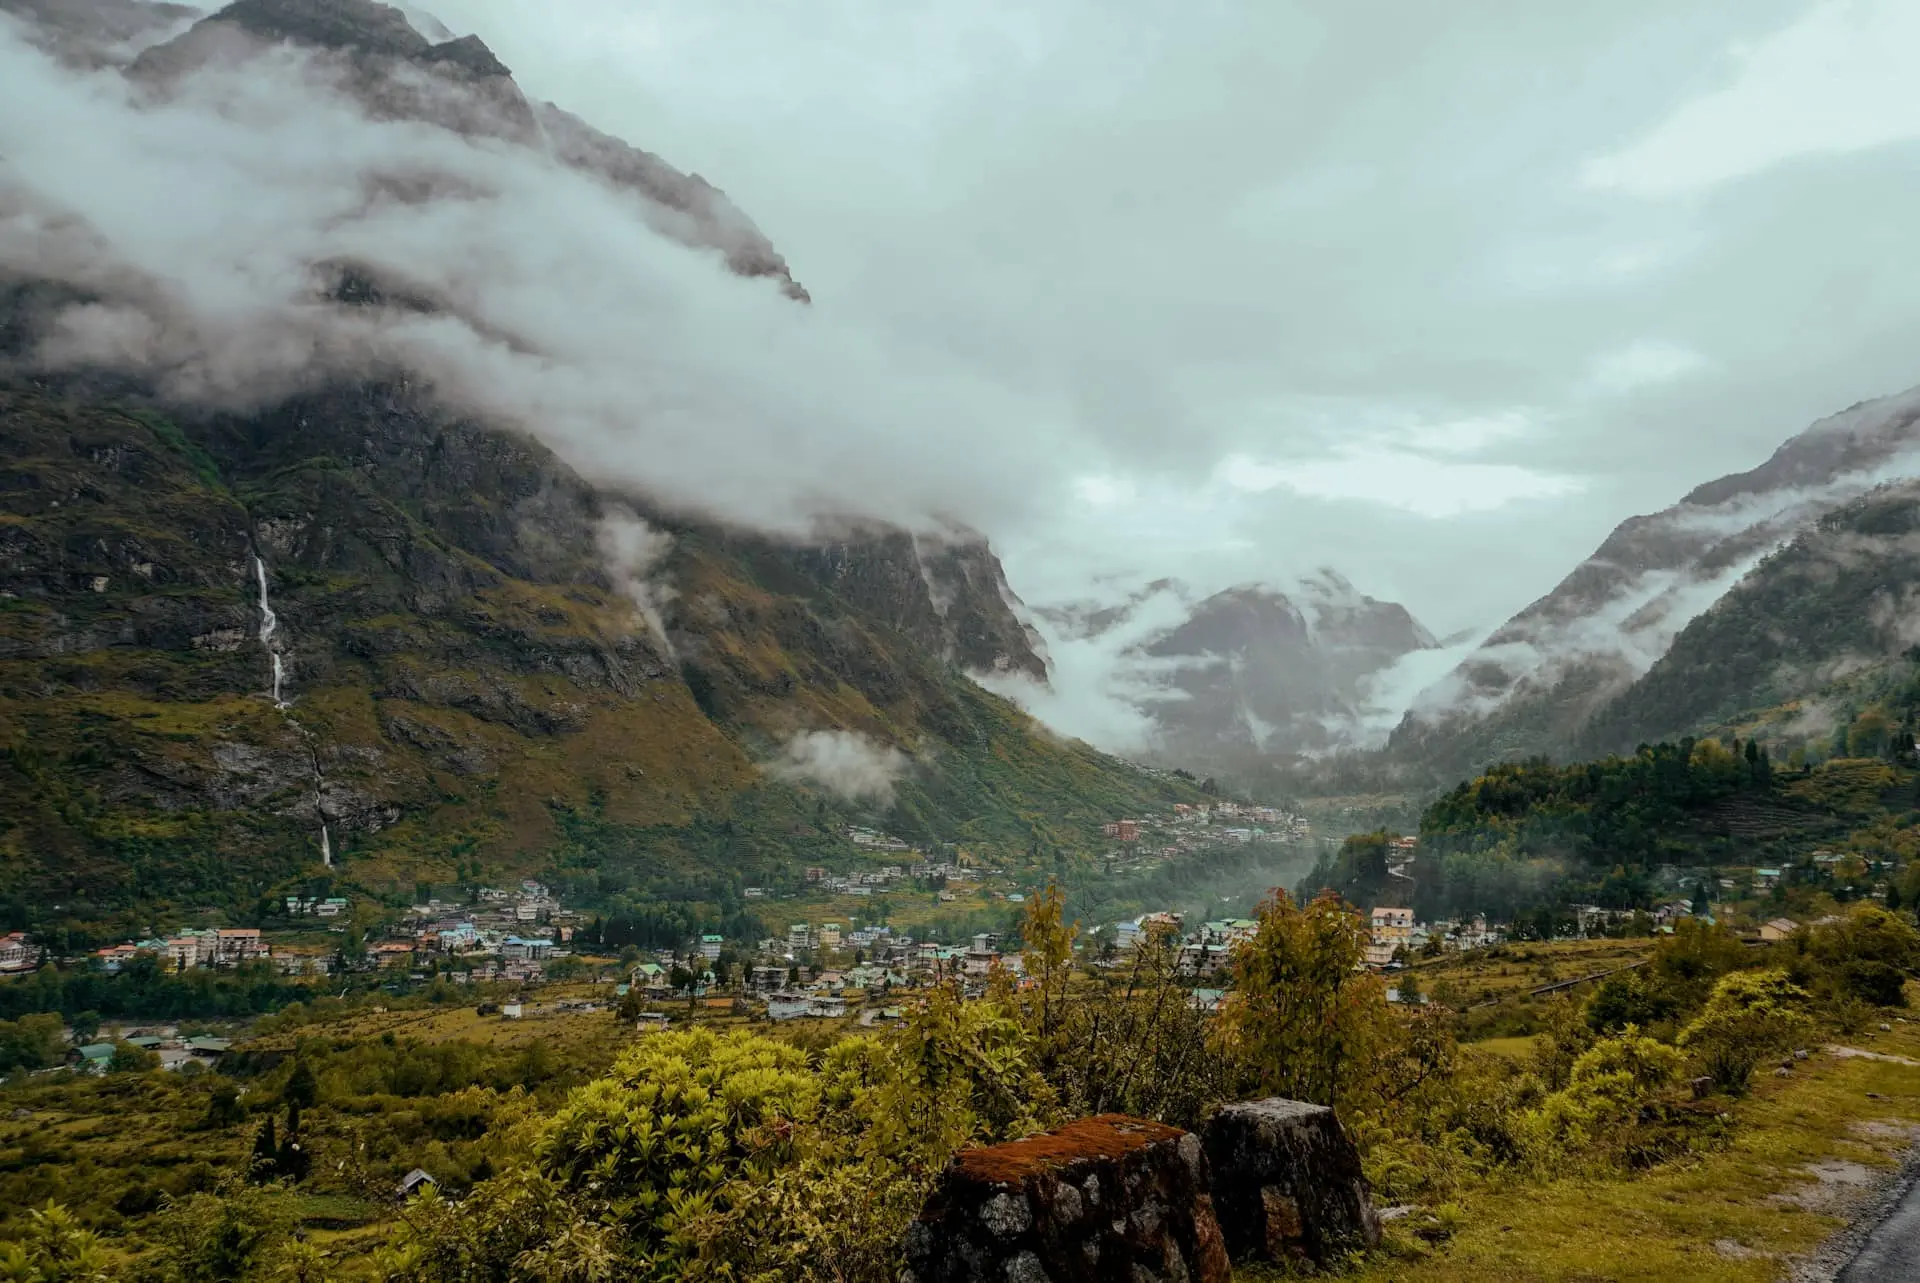
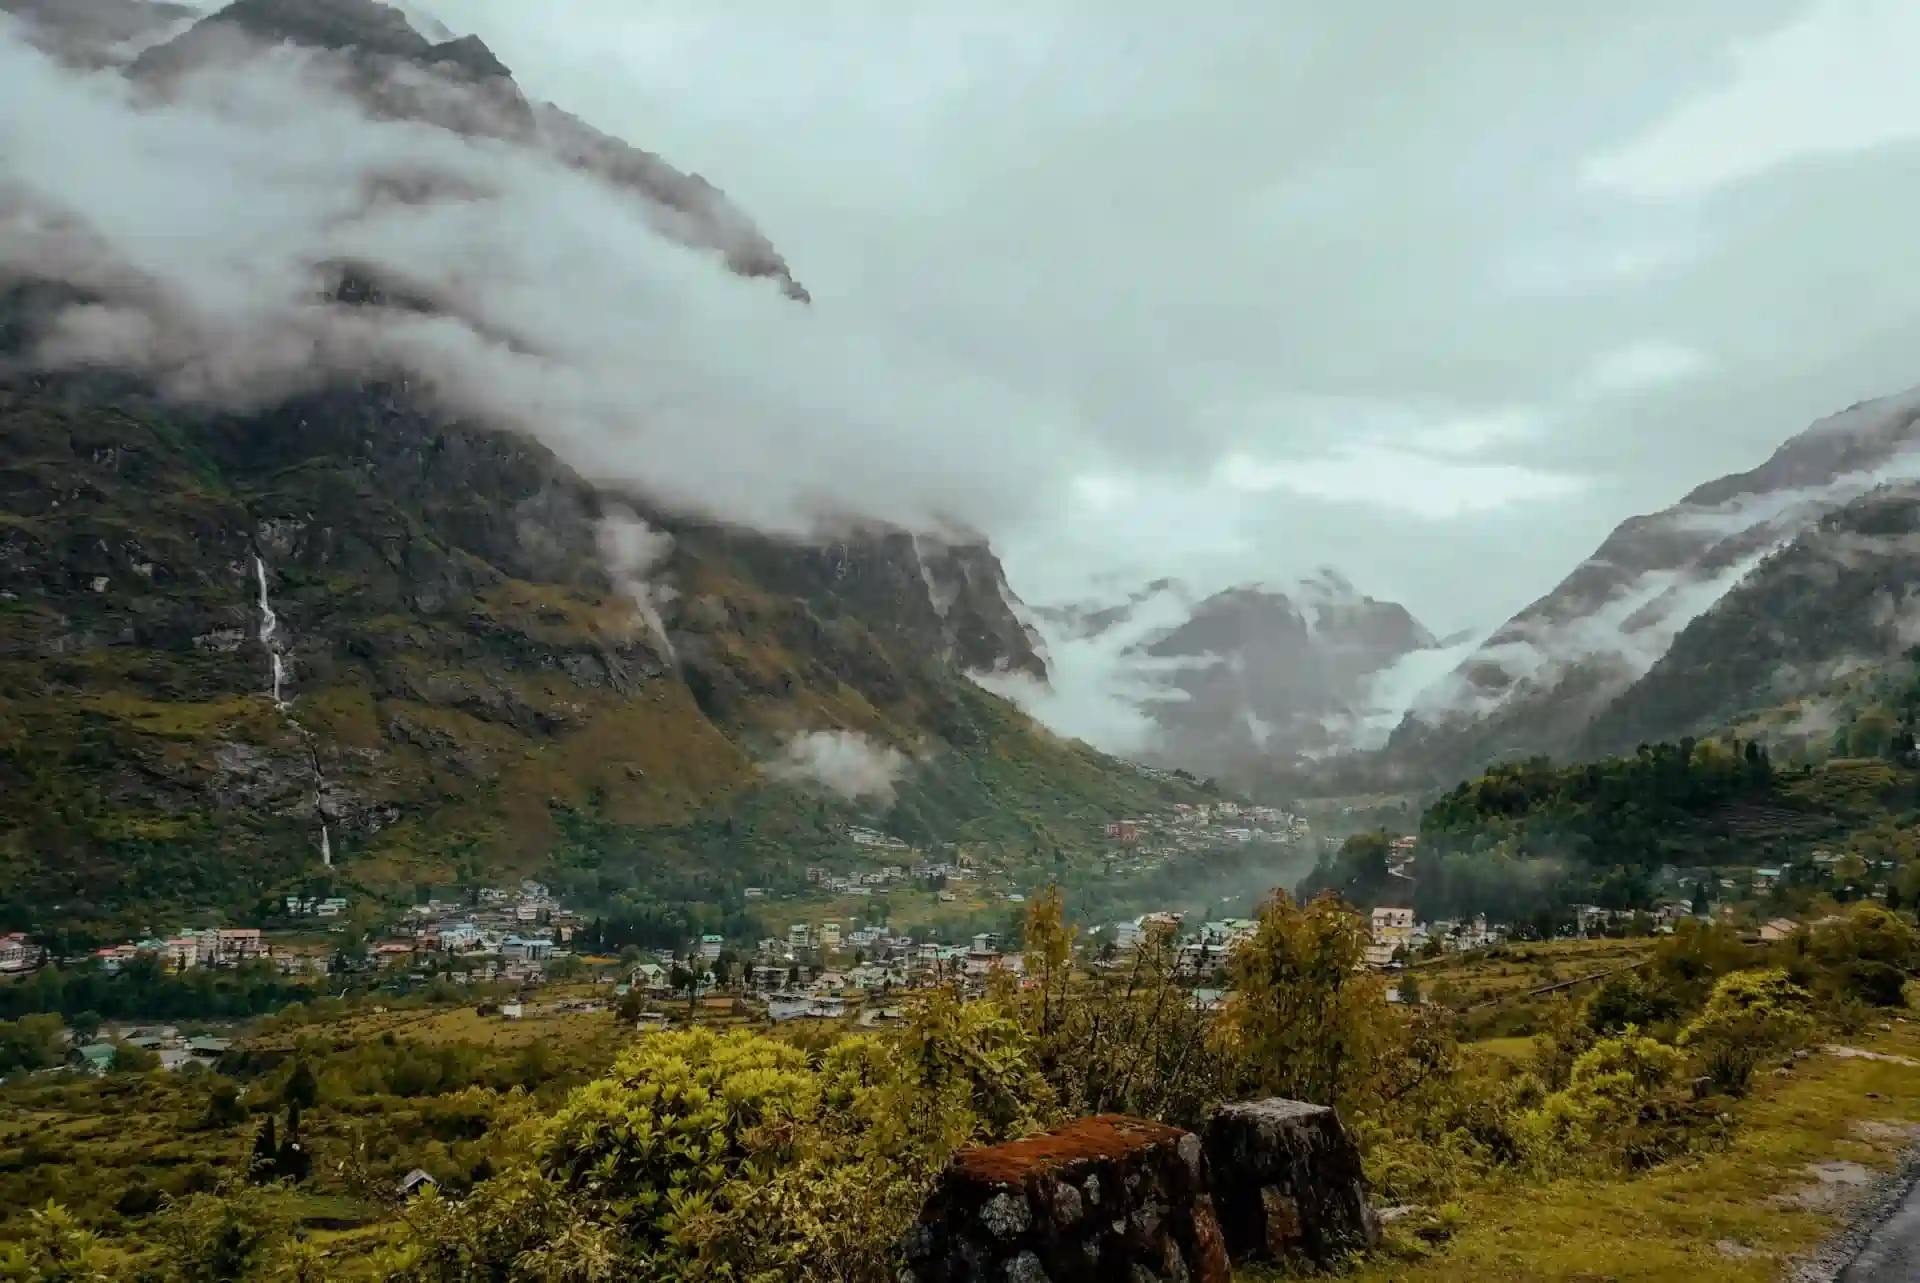
updated : optimize the image for hero , Ui adjustment

Changed region(s): [[0.4062, 0.9041, 0.4375, 0.9353]]

diff --git a/src/app/pages/destination-details/accomodation-eatery/accomodation-eatery.component.html b/src/app/pages/destination-details/accomodation-eatery/accomodation-eatery.component.html
@@ -51,18 +51,18 @@
 
             <!-- Hotel Details -->
             <div class="p-4 flex flex-col ">
-              <div class="gap-2 mb-4 h-24  justify-between grid grid-cols-1 ">
-                <div class="col">
-                <i class="fas fa-map-marker-alt text-primary-500 mt-0.5 w-5 text-center flex-shrink-0"></i>
-                <p class="text-gray-600 dark:text-gray-300 text-sm line-clamp-2">{{ hotel.address }}</p>
-              </div>
-              <div class="col"> 
-               
-                <i class="fas fa-phone-alt text-primary-500 mt-1 w-5 text-center" aria-hidden="true"></i>
-                <a [href]="'tel:' + hotel.contact" class="hover:underline">{{ hotel.contact }}</a>
-                </div>
 
+              <div class="gap-2 mb-4 justify-between grid grid-cols-1">
+                <div class="flex items-start gap-2">
+                  <i class="fas fa-map-marker-alt text-primary-500 mt-0.5 w-5 text-center flex-shrink-0"></i>
+                  <p class="text-gray-600 dark:text-gray-300 text-sm line-clamp-2">{{ hotel.address }}</p>
+                </div>
+                <div class="flex items-start gap-2"> 
+                  <i class="fas fa-phone-alt text-primary-500 mt-1 w-5 text-center flex-shrink-0" aria-hidden="true"></i>
+                  <a [href]="'tel:' + hotel.contact" class="hover:underline">{{ hotel.contact }}</a>
+                </div>
               </div>
+              
 
                           <!-- Phone -->
            
@@ -113,18 +113,18 @@
 
             <!-- Eatery Details -->
             <div class="p-4 flex flex-col">
-              <div class="gap-2 mb-4 h-24  justify-between grid grid-cols-1 ">
-                <div class="col">
-                <i class="fas fa-map-marker-alt text-primary-500 mt-1 w-5 text-center"></i>
-                <p class="text-gray-600 dark:text-gray-300 text-sm line-clamp-2">{{ eatery.address }}</p>
+
+              <div class="gap-2 mb-4 h-24 justify-between grid grid-cols-1">
+                <div class="flex items-start gap-2">
+                  <i class="fas fa-map-marker-alt text-primary-500 mt-1 w-5 text-center"></i>
+                  <p class="text-gray-600 dark:text-gray-300 text-sm line-clamp-2">{{ eatery.address }}</p>
                 </div>
-                <div class="col"> 
-               
+                <div class="flex items-start gap-2">
                   <i class="fas fa-phone-alt text-primary-500 mt-1 w-5 text-center" aria-hidden="true"></i>
                   <a [href]="'tel:' + eatery.contact" class="hover:underline">{{ eatery.contact }}</a>
-                  </div>
+                </div>
               </div>
-
+              
               <!-- Action Button -->
               <button
                 (click)="openEateryModal(eatery)"

diff --git a/src/app/common/navbar/navbar.component.html b/src/app/common/navbar/navbar.component.html
@@ -14,7 +14,7 @@
               <img
                 class="h-12 w-auto drop-shadow-lg dark:brightness-200"
                 src="assets/Images/logo/tdos-g.png"
-                alt="Sikkim Tourism Logo"
+                alt="Sikkim Tourism"
               />
               <span
                 class="whitespace-nowrap bg-gradient-to-r from-primary-600 via-secondary-700 to-accent-500 dark:from-primary-400 dark:via-secondary-400 dark:to-accent-400 bg-clip-text text-transparent font-bold text-xl"
@@ -128,8 +128,8 @@
               <a routerLink="/" class="flex items-center">
                 <img
                   class="h-12 w-auto drop-shadow-lg"
-                  src="assets/Images/logo/gos.png"
-                  alt="Government of Sikkim Logo"
+                  src="assets/Images/logo/gos.webp"
+                  alt="Government of Sikkim"
                 />
               </a>
             </div>
@@ -139,7 +139,7 @@
                 <img
                   class="h-12 w-auto drop-shadow-lg"
                   src="assets/Images/logo/statehood.png"
-                  alt="Statehood Day Logo"
+                  alt="Statehood"
                 />
               </a>
             </div>
@@ -175,14 +175,14 @@
               <!-- Sikkim Gov Logo -->
               <img
                 class="h-10 w-auto drop-shadow-lg dark:filter dark:grayscale dark:invert dark:brightness(1.5)"
-                src="assets/Images/logo/gos.png"
-                alt="Sikkim Government Logo"
+                src="assets/Images/logo/gos.webp"
+                alt="Government of Sikkim"
               />
               <!-- Sunawlo Sikkim Logo -->
               <img
                 class="h-10 w-auto drop-shadow-lg dark:filter dark:brightness(1.5)"
                 src="assets/Images/logo/statehood.png"
-                alt="Statehood Day Logo"
+                alt="Statehood"
               />
             </div>
             <!-- Divider -->

diff --git a/src/app/pages/home/home-hero-section/home-hero-section.component.html b/src/app/pages/home/home-hero-section/home-hero-section.component.html
@@ -65,16 +65,13 @@
     </svg>
   </div>
 
-  <!-- Background Image -->
-  <div class="absolute inset-0">
-    <div
-      class="h-full w-full bg-cover bg-center bg-no-repeat bg-image bg-[url('assets/Images/website-images/landing-hero-bg.webp')]"
-    >
-      <div
-        class="absolute inset-0 bg-gradient-to-b from-black/50 via-black/30 to-black/50 dark:from-black/70 dark:via-black/50 dark:to-black/70"
-      ></div>
-    </div>
-  </div>
+  <img
+  src="assets/Images/website-images/landing-hero-bg.webp"
+  class="absolute inset-0 w-full h-full object-cover"
+  alt="Hero Background"
+/>
+  <!-- Black Gradient Overlay -->
+  <div class="absolute inset-0 bg-gradient-to-b from-black/50 via-black/30 to-black/50 dark:from-black/70 dark:via-black/50 dark:to-black/70"></div>
 
   <!-- Content -->
   <div
@@ -128,6 +125,7 @@
             [src]="destination.image"
             alt="{{ destination.name }}"
             class="w-12 h-12 rounded object-cover"
+            loading="lazy"
           />
           <span class="text-gray-900 dark:text-gray-100">{{
             destination.name

diff --git a/src/app/pages/home/video-section/video-section.component.html b/src/app/pages/home/video-section/video-section.component.html
@@ -18,7 +18,7 @@
       
         <button 
           (click)="loadVideo()" 
-          class="cursor-pointer absolute inset-0 flex items-center justify-center text-white text-4xl bg-black/50 hover:bg-black/30 transition">
+          class="cursor-pointer  absolute inset-0 flex items-center justify-center text-white text-4xl bg-white/50 hover:bg-white/30 transition">
           <svg xmlns="http://www.w3.org/2000/svg" width="48" height="48" viewBox="0 0 48 48" fill="none">
             <circle cx="24" cy="24" r="23" stroke="black" stroke-width="2"/>
             <polygon points="18,15 34,24 18,33" fill="black"/>

diff --git a/src/index.html b/src/index.html
@@ -11,7 +11,8 @@
     <link rel="preconnect" href="https://fonts.googleapis.com">
     <link rel="preconnect" href="https://fonts.gstatic.com" crossorigin>
     <link href="https://fonts.googleapis.com/css2?family=Nunito:ital,wght@0,200..1000;1,200..1000&display=swap" rel="stylesheet">
-    
+    <link rel="preload" as="image" href="assets/Images/website-images/landing-hero-bg.webp" /> <!--------hero background image------->
+
     
     
     

diff --git a/src/app/pages/home/home-minister-profile/home-minister-profile.component.html b/src/app/pages/home/home-minister-profile/home-minister-profile.component.html
@@ -1,5 +1,5 @@
 <!-- Minister Profile Section - Redesigned -->
-<div class="relative w-full h-full minister-profile mt-2">
+<div class="relative w-full  h-full minister-profile mt-2">
   <!-- Vignette Overlay -->
   <div
     class="absolute inset-x-0 bottom-0 h-64 bg-gradient-to-t from-black/70 to-transparent z-10"

diff --git a/src/app/pages/destination-details/ai-audio-model/ai-audio-model.component.html b/src/app/pages/destination-details/ai-audio-model/ai-audio-model.component.html
@@ -151,7 +151,7 @@
 
 
 <!-- Floating Audio Control -->
-<div class="fixed left-8 bottom-8 z-50">
+<div class="fixed left-8 bottom-4 z-50">
   <!-- Main Container -->
   <div class="relative flex items-center">
     <!-- Playback Controls (Hidden until hover) -->

diff --git a/src/app/pages/home/home-minister-profile/home-minister-profile.component.ts b/src/app/pages/home/home-minister-profile/home-minister-profile.component.ts
@@ -75,7 +75,7 @@ export class HomeMinisterProfileComponent implements OnInit, OnDestroy, AfterVie
         false,
         [1, 2, 3]
       );
-    }, 2000);
+    }, 1000);
   }
 
   ngOnDestroy() {

diff --git a/src/app/pages/destination-details/ai-audio-model/ai-audio-model.component.ts b/src/app/pages/destination-details/ai-audio-model/ai-audio-model.component.ts
@@ -160,5 +160,10 @@ export class AiAudioModelComponent {
     return Math.random() * 20 + 4;
   }
 
+  ngOnDestroy(): void {
+    this.audio.pause();
+    this.audio.currentTime = 0;
+  }
+
 
 }
